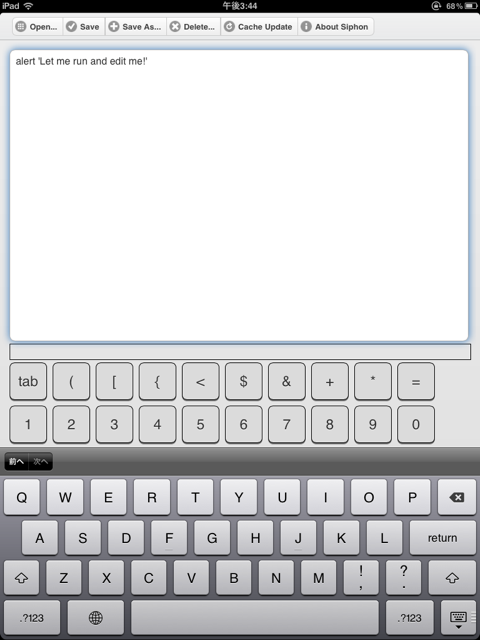
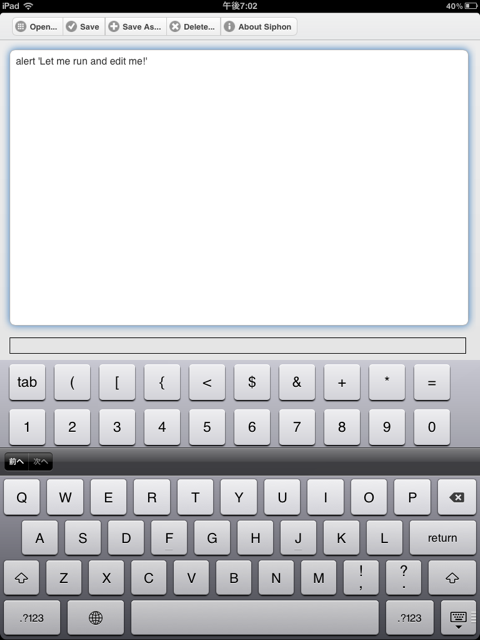
designed keytop.

Changed region(s): [[0.0, 0.5, 1.0, 0.75], [0.4688, 0.0, 0.7812, 0.0625], [0.9062, 0.0, 0.9375, 0.0312]]

diff --git a/public/siphon/siphon.css b/public/siphon/siphon.css
@@ -1,22 +1,7 @@
 /*
-html {
-	height: 100%;
-}
-
-body {
-	background-color: #7a7983;
-	height: 100%;
-}
-
-#wrapper {
-	height: 100%;
-}
-
-#stack {
-	width: 100%;
-	position: absolute;
-	bottom: 0;
-}
+ Siphon: CoffeeScript programming environment for iPad
+ author: ICHIKAWA, Yuji
+ Copyright (C) 2011 safari-park
 */
 
 .ui-select {
@@ -26,18 +11,25 @@ body {
 
 #main {
 	position: absolute;
+	margin: 0;
+	padding: 0;
 	width: 100%;
 	height: 100%;
 }
 
 textarea#edit {
+	margin-top: 15px;
+	margin-left: 15px;
 	width: 94%;
+	height: 320px;
 	background-color: white;
 	font-size: 12pt;
 }
 
 #error {
-	width: 96%;
+	margin-top: 15px;
+	margin-left: 15px;
+	width: 95%;
 	height: 24px;
 	font-size: 16px;
 	color: red;
@@ -47,15 +39,17 @@ textarea#edit {
 #keys {
 	position: absolute;
 	width: 100%;
-	bottom: 380px; /* 一体英語ソフトキーボードの高さ */
-/*	bottom: 360px; *//* 分割英語ソフトキーボードの高さ */
+	bottom: 0;
+	margin: 0;
+	padding-top: 7px;
+	padding-left: 15px;
+	height: 485px;
+/*	background-image: -webkit-gradient(linear, left top, left bottom, from(rgb(158,157,167)), to(rgb(67,68,75))); */
+	background-image: -webkit-gradient(linear, left top, left bottom, from(rgb(200,200,210)), to(rgb(67,68,75)));
 }
 
 .clear {
 	clear: both;
-}
-
-#numbers {
 }
 
 .scroll {
@@ -64,19 +58,32 @@ textarea#edit {
 }
 
 .key {
+	position: relative;
 	float: left;
-	width: 58px;
-	height: 58px;
-	line-height: 58px;
+	border-radius: 5px;
+	color: #000;
+	display: block;
 	font-family: sans-serif;
 	font-size: 17pt;
-	background-color: #dbdbdb;
-	border: 1px solid black;
-	margin-right: 9px;
-	margin-bottom: 9px;
+	height: 57px;
+	line-height: 57px;
+	margin-right: 15px;
+	margin-bottom: 15px;
+	width: 57px;
 	text-align: center;
-	-webkit-box-shadow: 0px 2px 0px rgba(0,0,0,0.5);
-	-webkit-border-radius: 8px;  
+	vertical-align: middle;
+	z-index: 1;
+	user-select:none;
+	background-image: -webkit-gradient(linear, left top, left bottom, from(#EEEEF0), to(#D2D2D8));
+	box-shadow: inset 0 1px #FFF, 0 2px 2px #000;
+	text-shadow: 0 1px #FFF;
+}
+
+.key:active {
+	color: #ffffff;
+	background: #E7E7EC;
+	box-shadow: inset 0 1px #F7F7FC, 0 1px 1px #000;
+	top: 1px;
 }
 
 .sub {
@@ -84,6 +91,8 @@ textarea#edit {
 	position: relative;
 	left: 0;
 	top: -220%;
+	color: #000;
+	background-image: -webkit-gradient(linear, left top, left bottom, from(rgb(65,134,245)), to(rgb(25,79,220)));
 }
 
 /*
